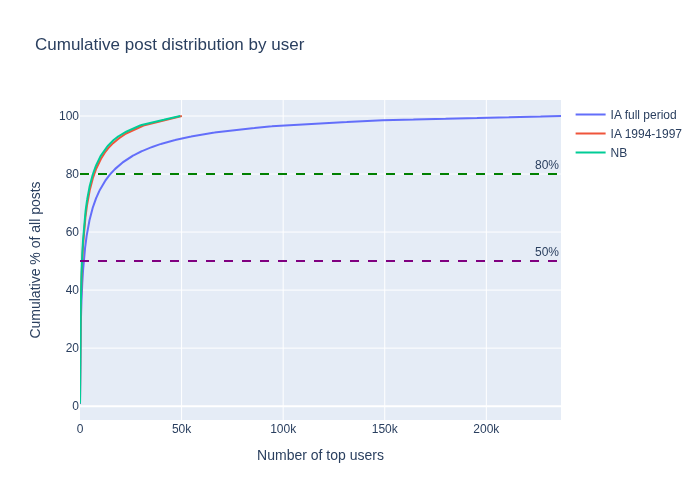
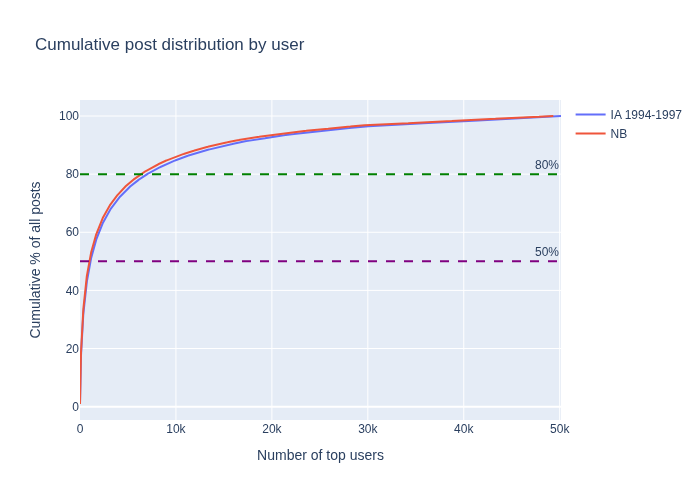
Hold NB up against the date filtered IA only, in the step 03 plots
02_plot_messages_per_group.py and 05_plot_messages_per_user.py ran their
NB comparisons over the full IA as well as the date filtered one. The full IA
runs past the NB archive at both ends, so those figures measured the extra
years rather than a difference between the archives.

Everything compared against NB now reads the date filtered IA: the group
overlap and top group share tables, the size ratio, the top poster counts and
the shared user tables. The cumulative distribution plot drops its full IA
curve, so users.png is regenerated.

Per-archive output is untouched. The size and concentration lines, and every
top-vs-rest and distribution figure, still cover full IA, date filtered IA and
NB alike, and the nine .png files those write are unchanged.

In 02, print_group_stats is split into print_archive_size, which describes one
archive, and print_group_overlap, which compares two.

diff --git a/scripts/03_statistics_per_archive/05_plot_messages_per_user.py b/scripts/03_statistics_per_archive/05_plot_messages_per_user.py
@@ -1,4 +1,8 @@
-"""Plot message counts per user (anonymized with hashed identifiers), for full IA data and IA filtered to the NB date span."""
+"""Plot message counts per user (anonymized with hashed identifiers), for full IA data and IA filtered to the NB date span.
+
+Anything held up against NB is read off the date filtered IA counts, since the
+full IA runs past the NB archive at both ends.
+"""
 
 import argparse
 from pathlib import Path
@@ -29,10 +33,9 @@ def print_stats(df: pd.DataFrame, label: str) -> None:
     print(f"  Users with email:   {df['hashed_email'].notna().sum():,}")
 
 
-def print_top_poster_counts(ia_dfs: list, df_nb: pd.DataFrame, n: int) -> None:
-    for label, df_ia in ia_dfs:
-        print(f"\nTop {n} posters — {label}")
-        print(df_ia.head(n).reset_index().post_count.apply(space_fmt))
+def print_top_poster_counts(df_ia: pd.DataFrame, df_nb: pd.DataFrame, n: int) -> None:
+    print(f"\nTop {n} posters — IA date-filtered")
+    print(df_ia.head(n).reset_index().post_count.apply(space_fmt))
     print(f"Number of posts by top {n} posters in Norwegian Web Archive data")
     print(df_nb.head(n).reset_index().post_count.apply(space_fmt))
 
@@ -110,29 +113,26 @@ def top_shared(
     return result[["hashed_email", "pct_ia", "pct_nb"]]
 
 
-def print_shared_users(ia_dfs: list, df_nb: pd.DataFrame) -> None:
+def print_shared_users(df_ia: pd.DataFrame, df_nb: pd.DataFrame) -> None:
     nb_by_email = df_nb.groupby("hashed_email")["post_count"].sum().reset_index()
     total_nb = df_nb["post_count"].sum()
     n = 10
 
-    for label, df_ia in ia_dfs:
-        ia_by_email = df_ia.groupby("hashed_email")["post_count"].sum().reset_index()
-        shared = ia_by_email.merge(
-            nb_by_email, on="hashed_email", suffixes=("_ia", "_nb")
-        )
-        total_ia = df_ia["post_count"].sum()
+    ia_by_email = df_ia.groupby("hashed_email")["post_count"].sum().reset_index()
+    shared = ia_by_email.merge(nb_by_email, on="hashed_email", suffixes=("_ia", "_nb"))
+    total_ia = df_ia["post_count"].sum()
 
-        print(f"\n{label}")
-        print(f"Users in both IA and NB (by email): {len(shared):,}")
-        print(
-            f"  IA-only users:  {len(ia_by_email[~ia_by_email['hashed_email'].isin(shared['hashed_email'])]):,}"
-        )
-        print(
-            f"  NB-only users: {len(nb_by_email[~nb_by_email['hashed_email'].isin(shared['hashed_email'])]):,}"
-        )
-        for sort_col, sort_label in [("post_count_ia", "IA"), ("post_count_nb", "NB")]:
-            print(f"Top {n} shared users by {sort_label} post count")
-            print(top_shared(shared, total_ia, total_nb, n, sort_col).to_string())
+    print("\nIA date-filtered against NB")
+    print(f"Users in both IA and NB (by email): {len(shared):,}")
+    print(
+        f"  IA-only users:  {len(ia_by_email[~ia_by_email['hashed_email'].isin(shared['hashed_email'])]):,}"
+    )
+    print(
+        f"  NB-only users: {len(nb_by_email[~nb_by_email['hashed_email'].isin(shared['hashed_email'])]):,}"
+    )
+    for sort_col, sort_label in [("post_count_ia", "IA"), ("post_count_nb", "NB")]:
+        print(f"Top {n} shared users by {sort_label} post count")
+        print(top_shared(shared, total_ia, total_nb, n, sort_col).to_string())
 
 
 def main() -> None:
@@ -172,16 +172,19 @@ def main() -> None:
     ia_full = load_user_counts(args.ia_csv)
     ia_filtered = load_user_counts(args.ia_date_filtered_csv)
     df_nb = load_user_counts(args.nb_csv)
-    ia_dfs = [("Full IA", ia_full), ("IA date-filtered", ia_filtered)]
 
-    for label, df_ia in ia_dfs:
-        print_stats(df_ia, label)
-        nb_pct = df_nb["post_count"].sum() / df_ia["post_count"].sum() * 100
-        print(f"  NB is {nb_pct:.1f}% the size by post count")
+    for label, df in [
+        ("Full IA", ia_full),
+        ("IA date-filtered", ia_filtered),
+        ("NB", df_nb),
+    ]:
+        print_stats(df, label)
         print()
-    print_stats(df_nb, "NB")
 
-    print_top_poster_counts(ia_dfs, df_nb, n=20)
+    nb_pct = df_nb["post_count"].sum() / ia_filtered["post_count"].sum() * 100
+    print(f"NB is {nb_pct:.1f}% the size of the date-filtered IA by post count")
+
+    print_top_poster_counts(ia_filtered, df_nb, n=20)
 
     n = 100
     plot_top_vs_rest(
@@ -204,7 +207,6 @@ def main() -> None:
     )
 
     cumulative_dfs = [
-        (ia_full, "IA full period"),
         (ia_filtered, "IA 1994-1997"),
         (df_nb, "NB"),
     ]
@@ -213,7 +215,7 @@ def main() -> None:
         [(ia_full, "Full IA"), (ia_filtered, "IA date-filtered"), (df_nb, "NB")]
     )
 
-    print_shared_users(ia_dfs, df_nb)
+    print_shared_users(ia_filtered, df_nb)
 
 
 if __name__ == "__main__":

diff --git a/scripts/03_statistics_per_archive/02_plot_messages_per_group.py b/scripts/03_statistics_per_archive/02_plot_messages_per_group.py
@@ -1,4 +1,8 @@
-"""Plot message counts per newsgroup, for full IA data and IA filtered to the NB date span."""
+"""Plot message counts per newsgroup, for full IA data and IA filtered to the NB date span.
+
+Anything held up against NB is read off the date filtered IA counts, since the
+full IA runs past the NB archive at both ends.
+"""
 
 import argparse
 from pathlib import Path
@@ -15,41 +19,33 @@ def load_group_counts(path: Path) -> pd.DataFrame:
     return df.sort_values("message_count", ascending=False)
 
 
-def print_group_stats(ia_dfs: list, df_nb: pd.DataFrame) -> None:
-    for label, df_ia in ia_dfs:
-        shared = set(df_ia["newsgroup"]) & set(df_nb["newsgroup"])
-        print(
-            f"{label} — groups: {len(df_ia)}, total messages: {df_ia['message_count'].sum():,}"
-        )
-        print(f"  Groups in both: {len(shared)}")
-        print(f"  IA only:        {len(set(df_ia['newsgroup']) - shared)}")
-        print(f"  NB only:       {len(set(df_nb['newsgroup']) - shared)}")
-        print()
-    print(
-        f"NB — groups: {len(df_nb)}, total messages: {df_nb['message_count'].sum():,}"
-    )
+def print_archive_size(df: pd.DataFrame, label: str) -> None:
+    print(f"{label} — groups: {len(df)}, total messages: {df['message_count'].sum():,}")
+
+
+def print_group_overlap(df_ia: pd.DataFrame, df_nb: pd.DataFrame) -> None:
+    shared = set(df_ia["newsgroup"]) & set(df_nb["newsgroup"])
+    print("IA date-filtered against NB")
+    print(f"  Groups in both: {len(shared)}")
+    print(f"  IA only:        {len(set(df_ia['newsgroup']) - shared)}")
+    print(f"  NB only:        {len(set(df_nb['newsgroup']) - shared)}")
 
 
 def print_top_groups(
-    ia_dfs: list, df_nb: pd.DataFrame, sort_col: str, sort_label: str
+    df_ia: pd.DataFrame, df_nb: pd.DataFrame, sort_col: str, sort_label: str
 ) -> None:
-    for label, df_ia in ia_dfs:
-        merged = df_ia.merge(df_nb, on="newsgroup", suffixes=("_ia", "_nb"))
-        merged["pct_ia"] = (
-            merged["message_count_ia"] / df_ia["message_count"].sum() * 100
-        )
-        merged["pct_nb"] = (
-            merged["message_count_nb"] / df_nb["message_count"].sum() * 100
-        )
-        result = (
-            merged[["newsgroup", "pct_ia", "pct_nb"]]
-            .sort_values(sort_col, ascending=False)
-            .reset_index(drop=True)
-        )
-        result["pct_ia"] = result["pct_ia"].map("{:.2f}%".format)
-        result["pct_nb"] = result["pct_nb"].map("{:.2f}%".format)
-        print(f"\nTop 20 newsgroups by {sort_label} share — {label}")
-        print(result.head(20).to_string())
+    merged = df_ia.merge(df_nb, on="newsgroup", suffixes=("_ia", "_nb"))
+    merged["pct_ia"] = merged["message_count_ia"] / df_ia["message_count"].sum() * 100
+    merged["pct_nb"] = merged["message_count_nb"] / df_nb["message_count"].sum() * 100
+    result = (
+        merged[["newsgroup", "pct_ia", "pct_nb"]]
+        .sort_values(sort_col, ascending=False)
+        .reset_index(drop=True)
+    )
+    result["pct_ia"] = result["pct_ia"].map("{:.2f}%".format)
+    result["pct_nb"] = result["pct_nb"].map("{:.2f}%".format)
+    print(f"\nTop 20 newsgroups by {sort_label} share — IA date-filtered against NB")
+    print(result.head(20).to_string())
 
 
 def plot_top_vs_rest(df: pd.DataFrame, title: str, out_path: Path) -> None:
@@ -136,11 +132,18 @@ def main() -> None:
     ia_full = load_group_counts(args.ia_csv)
     ia_filtered = load_group_counts(args.ia_date_filtered_csv)
     df_nb = load_group_counts(args.nb_csv)
-    ia_dfs = [("Full IA", ia_full), ("IA date-filtered", ia_filtered)]
 
-    print_group_stats(ia_dfs, df_nb)
-    print_top_groups(ia_dfs, df_nb, "pct_ia", "IA")
-    print_top_groups(ia_dfs, df_nb, "pct_nb", "NB")
+    for label, df in [
+        ("Full IA", ia_full),
+        ("IA date-filtered", ia_filtered),
+        ("NB", df_nb),
+    ]:
+        print_archive_size(df, label)
+    print()
+
+    print_group_overlap(ia_filtered, df_nb)
+    print_top_groups(ia_filtered, df_nb, "pct_ia", "IA")
+    print_top_groups(ia_filtered, df_nb, "pct_nb", "NB")
 
     plot_top_vs_rest(
         ia_full,

diff --git a/scripts/03_statistics_per_archive/README.md b/scripts/03_statistics_per_archive/README.md
@@ -3,10 +3,10 @@
 The counting scripts read `data/output/02_build_database/ia.db` and `data/output/02_build_database/nb.db`, and each drawing script reads what the script before it wrote. Messages whose date could not be parsed are excluded from the date filtered statistics.
 
 - [01_count_messages_per_group.py](01_count_messages_per_group.py) counts messages per newsgroup for each of IA, date filtered IA and NB archives. Creates `data/output/03_statistics_per_archive/messages_per_group_ia.csv`, `data/output/03_statistics_per_archive/messages_per_group_ia_date_filtered.csv`  and `data/output/03_statistics_per_archive/messages_per_group_nb.csv`. Run with `--overwrite` to rewrite output files that are already there; without the flag each of them is skipped.
-- [02_plot_messages_per_group.py](02_plot_messages_per_group.py) plots messages in the top 20 groups vs the rest, and the distribution of newsgroups by message count, reading the `messages_per_group_*.csv` files. Prints group statistics to stdout and saves .png files to `data/output/03_statistics_per_archive/plot_messages_per_group/`.
+- [02_plot_messages_per_group.py](02_plot_messages_per_group.py) plots messages in the top 20 groups vs the rest, and the distribution of newsgroups by message count, reading the `messages_per_group_*.csv` files. One .png is written per archive, for full IA, date filtered IA and NB alike, while the statistics printed against NB are read off the date filtered IA counts. Prints group statistics to stdout and saves .png files to `data/output/03_statistics_per_archive/plot_messages_per_group/`.
 - [03_count_duplicate_messages.py](03_count_duplicate_messages.py) finds *true duplicates*: messages stored more than once in the same mbox file with both the same Message-ID and the same body. Every copy is its own row in the database, so these are rows sharing archive, newsgroup, hashed Message-ID and hashed body. Creates `data/output/03_statistics_per_archive/duplicate_messages_per_group.jsonl`, with one row per duplicated Message-ID (`archive`, `newsgroup`, `hashed_message_id`, `count`), where `count` is the total number of copies present. Run with `--overwrite` to rewrite that file; without the flag the script exits without doing anything when it is already there.
 - [04_count_messages_per_user.py](04_count_messages_per_user.py) counts messages per user, reported by the hashes the database already holds, so no plain text name or email is written out. Creates `data/output/03_statistics_per_archive/messages_per_user_ia.csv`, `data/output/03_statistics_per_archive/messages_per_user_ia_date_filtered.csv` and `data/output/03_statistics_per_archive/messages_per_user_nb.csv`. Messages with no sender are left out, and counted by `09_count_messages_without_sender.py` instead. Run with `--overwrite` to rewrite output files that are already there; without the flag each of them is skipped.
-- [05_plot_messages_per_user.py](05_plot_messages_per_user.py) plots posts by the top 100 users vs the rest and the cumulative post distribution by user, reading the `messages_per_user_*.csv` files. Prints user statistics to stdout and saves image files to `data/output/03_statistics_per_archive/plot_messages_per_user/`.
+- [05_plot_messages_per_user.py](05_plot_messages_per_user.py) plots posts by the top 100 users vs the rest and the cumulative post distribution by user, reading the `messages_per_user_*.csv` files. The top-users-vs-rest .png is written per archive, for full IA, date filtered IA and NB alike, while the cumulative distribution plot and the statistics printed against NB are read off the date filtered IA counts. Prints user statistics to stdout and saves image files to `data/output/03_statistics_per_archive/plot_messages_per_user/`.
 - [06_count_messages_per_date.py](06_count_messages_per_date.py) counts messages per date in each of IA and NB archives. Messages whose date could not be parsed are reported in a row labelled `unknown`. Outputs one file for each archive: `data/output/03_statistics_per_archive/date_count_ia.csv` and `data/output/03_statistics_per_archive/date_count_nb.csv`. Run with `--overwrite` to rewrite output files that are already there; without the flag each of them is skipped.
 - [07_plot_date_counts.py](07_plot_date_counts.py) plots message counts over time (daily, monthly and yearly) for each archive, reading the `date_count_*.csv` files. Saves .png files to `data/output/03_statistics_per_archive/plot_date_counts/`.
 - [08_find_conflicting_message_ids.py](08_find_conflicting_message_ids.py) finds Message-IDs that carry more than one distinct body *within* a single archive, i.e. messages that cannot be deduplicated on Message-ID without losing a version. Creates `data/output/03_statistics_per_archive/conflicting_message_ids_within_archive.jsonl`. Run with `--overwrite` to rewrite that file; without the flag the script exits without doing anything when it is already there.
